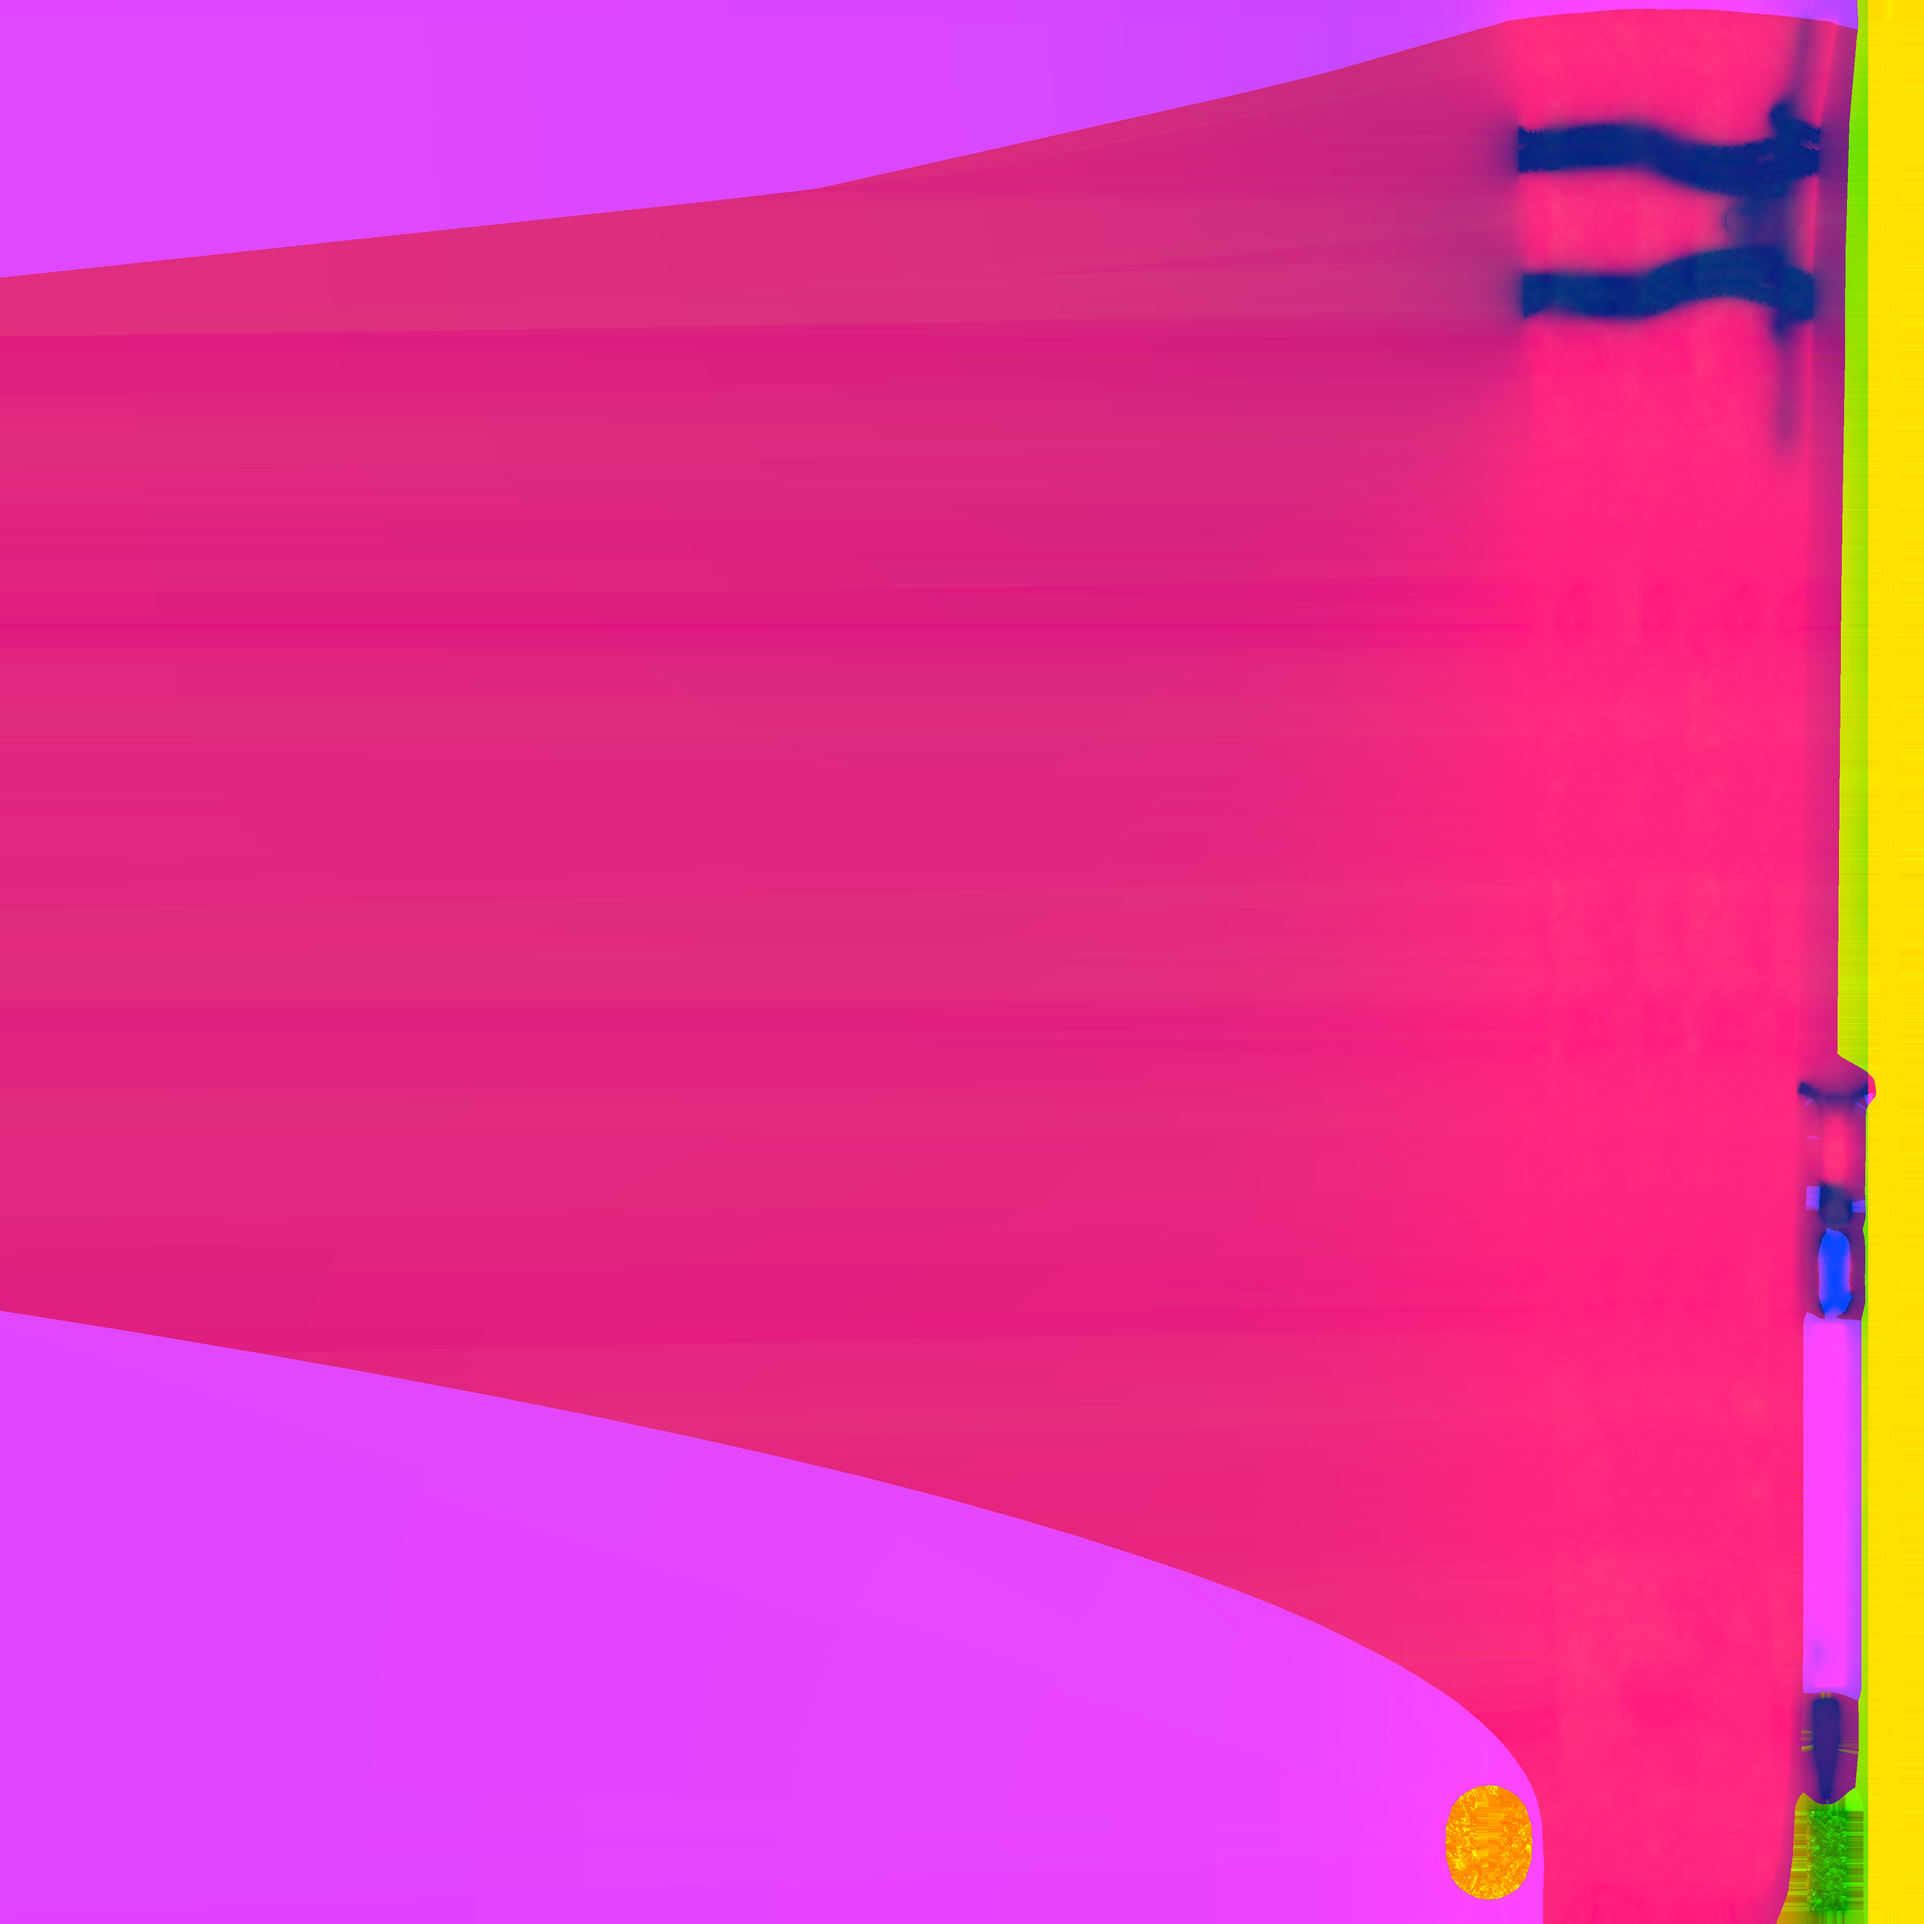
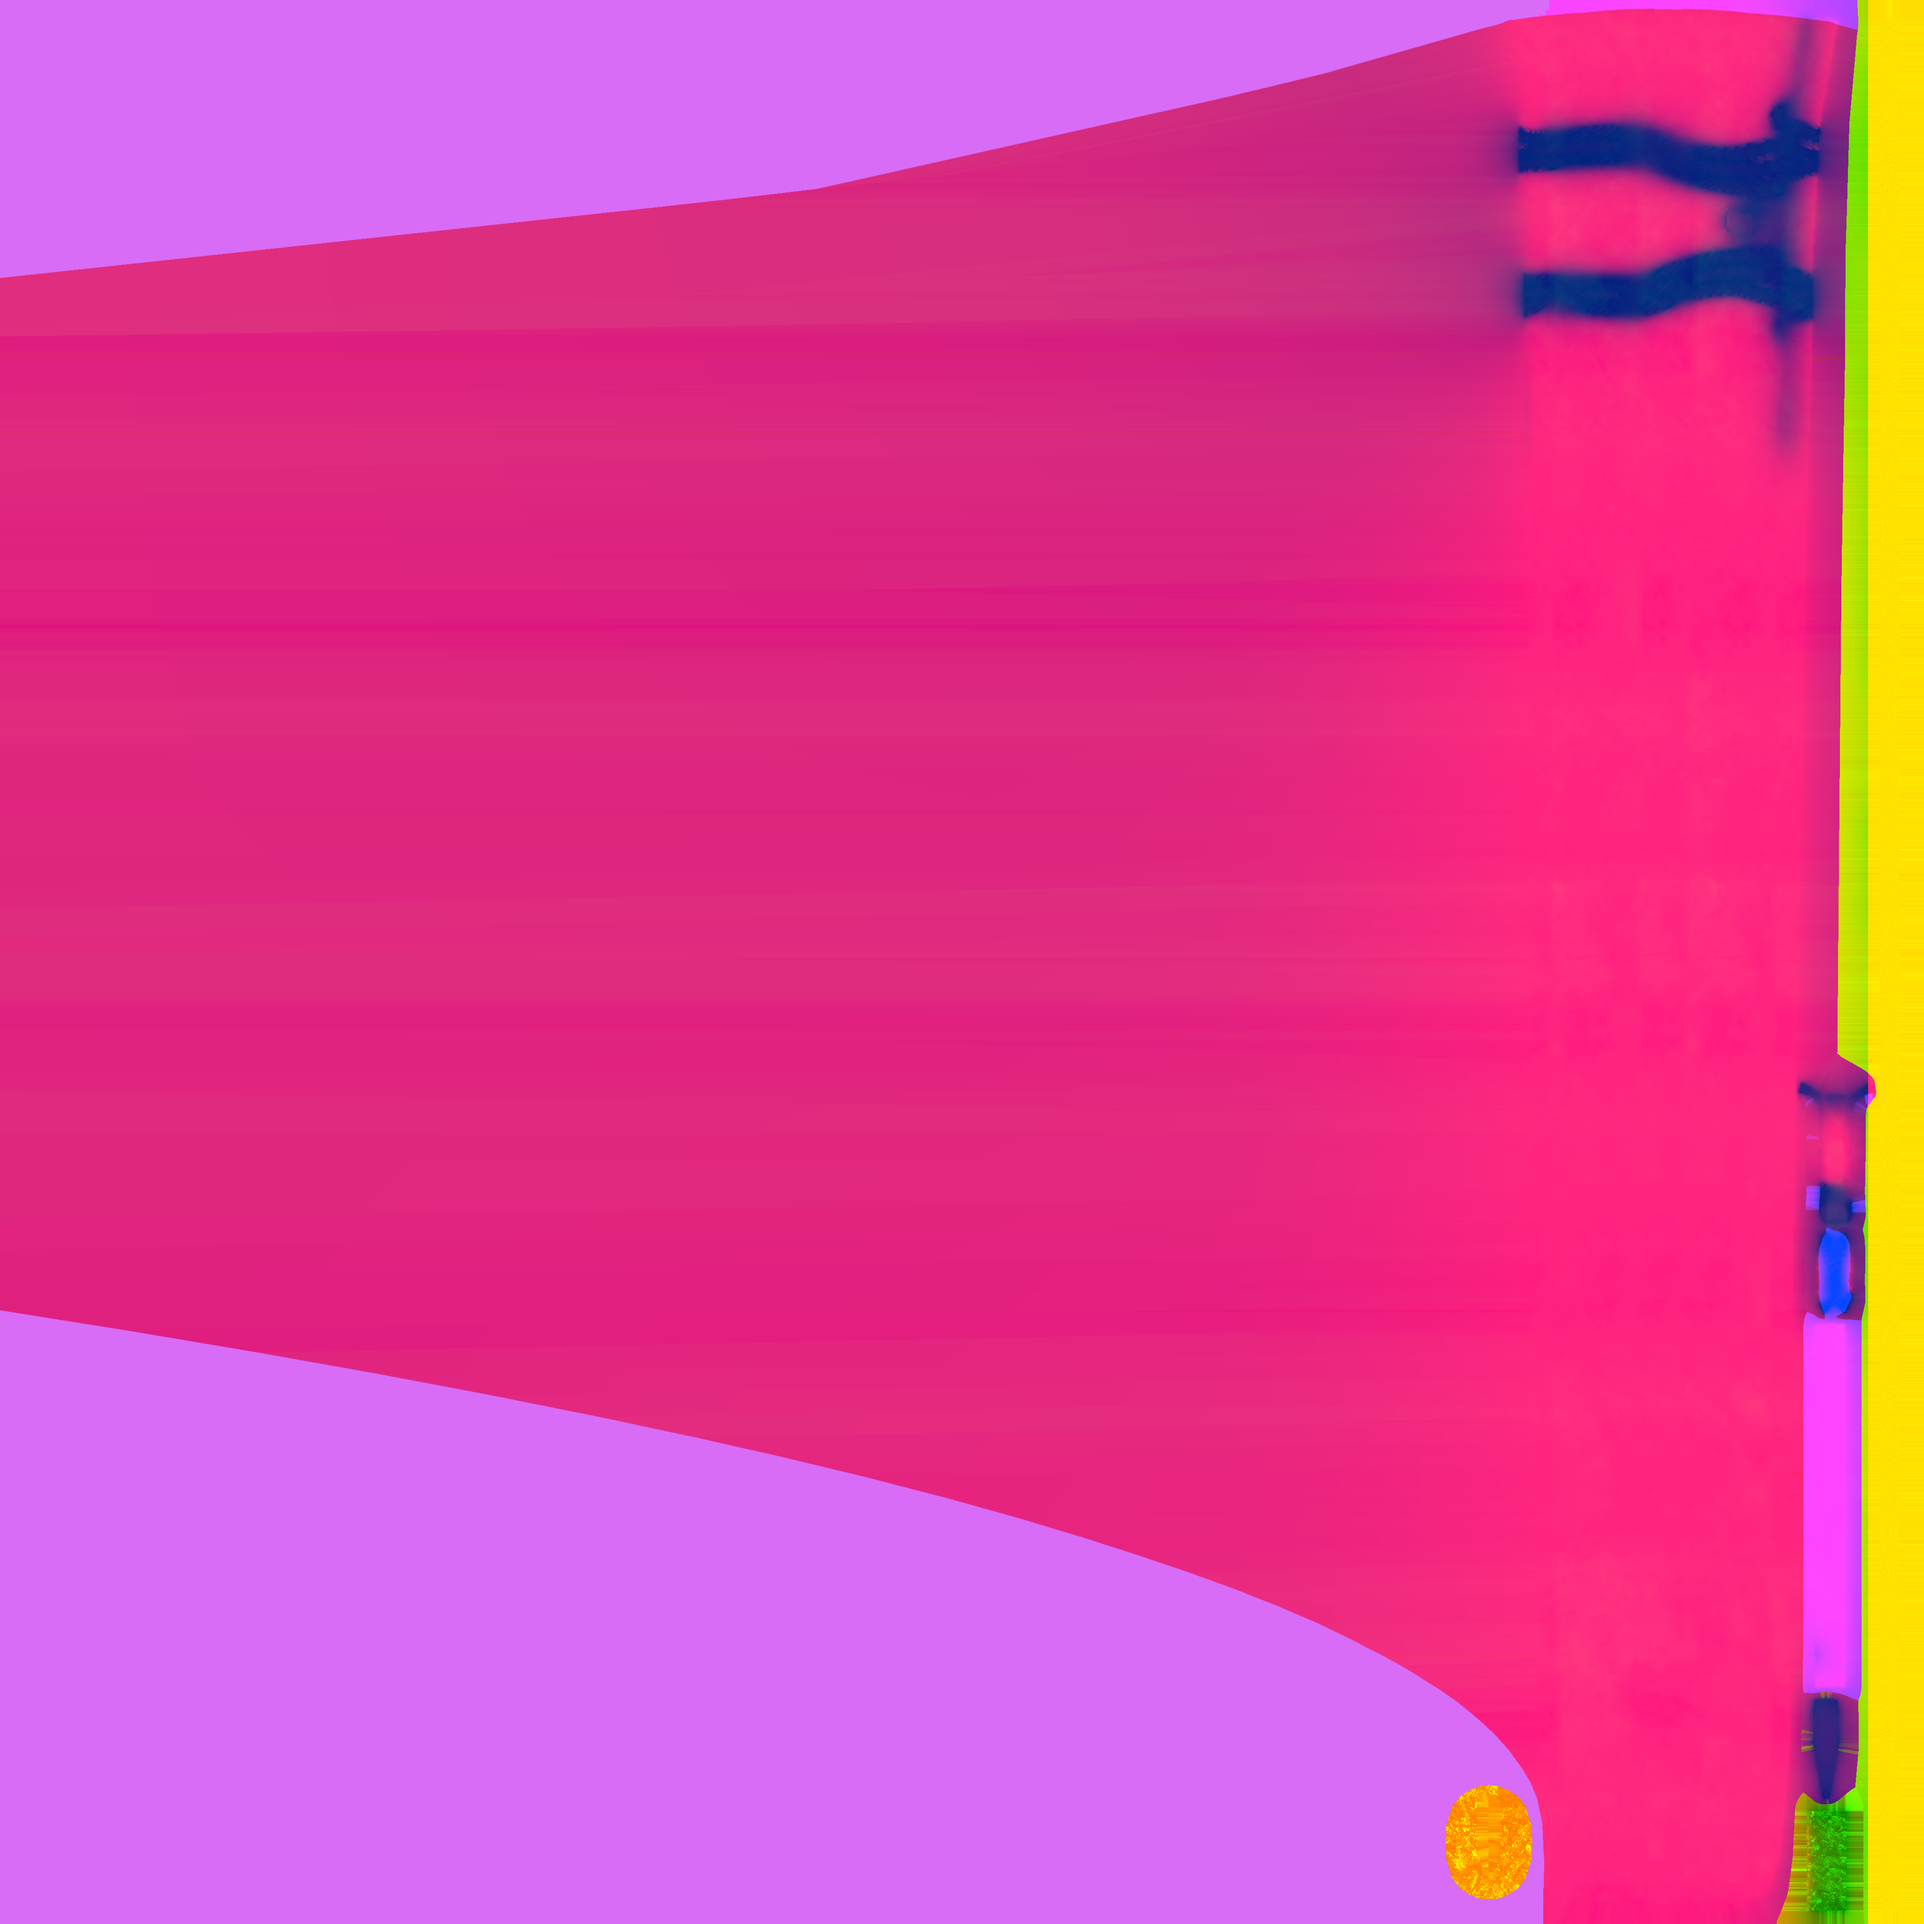
ss

Changed region(s): [[0.0, 0.6562, 0.8125, 1.0], [0.0, 0.0, 0.8125, 0.1562]]

diff --git a/main.js b/main.js
@@ -35,51 +35,27 @@ function init() {
     scene.add( light );
 
     hemiLight = new THREE.HemisphereLight( 0xffffff, 0xffffff, 5);
-    hemiLight.position.set( 0, 10, 0 );
+    hemiLight.position.set( 0, 15, 0 );  
 
     scene.add( hemiLight );
+    
 
-
-    light1 = new THREE.PointLight(0xc4c4c4,0.5);
-    light1.position.set(30,20,50);
+    light1 = new THREE.DirectionalLight(0xc4c4c4,1);
+    light1.position.set(10,3,20);
      scene.add(light1);
 
-    light2 = new THREE.PointLight(0xc4c4c4,0.5);
-    light2.position.set(-7,20,50);
+    light2 = new THREE.DirectionalLight(0xc4c4c4,1);
+    light2.position.set(-10,3,20);
     scene.add(light2);
 
-    light3 = new THREE.PointLight(0xc4c4c4,0.5);
-    light3.position.set(30,-20,-50);
+    light3 = new THREE.DirectionalLight(0xc4c4c4,1);
+    light3.position.set(10,3,-20);
     scene.add(light3);
     
-    light4 = new THREE.PointLight(0xc4c4c4,0.5);
-    light4.position.set(-7,20,-50);
+    light4 = new THREE.DirectionalLight(0xc4c4c4,1);
+    light4.position.set(-10,3,-20);
     scene.add(light4);
-
-    lightMove = new THREE.PointLight(0xc4c4c4,5,);
-   // lightMove.position.set(-7,20,-50);
-     
-    scene.add(lightMove);
-
-
-
-/*
-    scene.add( spotLight1, spotLight2, spotLight3 );
-    scene.add( lightHelper1, lightHelper2, lightHelper3 );
-*/
-
-/*
-   lightFront = new THREE.DirectionalLight(0xc4c4c4, 1);
-    lightFront.position.set(0,12, 10);
-     
-    scene.add(lightFront);
-
-    lightBack = new THREE.DirectionalLight(0xc4c4c4, 1);
-    lightBack.position.set(0,12, -10);
-    scene.add(lightBack);*/
-
-    
-   
+  
 
     renderer = new THREE.WebGLRenderer({canvas, antialias:true});
 
@@ -123,11 +99,7 @@ function init() {
 function animate() {
  
   renderer.render(scene,camera);  
-  
-  //lightMove
-  lightMove.position.set(camera.position.x, camera.position.y, camera.position.z -10)
-  lightMove.target = katana;  
-
+ 
 
   requestAnimationFrame(animate);
   if (resizeRendererToDisplaySize(renderer)) {

diff --git a/katanaParts.js b/katanaParts.js
@@ -6,22 +6,22 @@ const colorsNonMetal = [
         color: '171717'
     },
     {
-        color: 'EE0000'
+        color: 'F50016'
     },
     {
-        color: '0300BD'
+        color: '00008F'
     },
     {
-        color: '06CD31'
+        color: '084F1A'
     },
     {
         color: 'EFF70E'
     },
     {
-        color: '13CDC7'
+        color: '0A605E'
     },
     {
-        color: 'B5651D'
+        color: '6A1415'
     },
     {
         color: '654321'
@@ -45,10 +45,10 @@ const colorsNonMetal = [
         color: 'C5C9C7'
     },
     {
-        color: 'EDC9AF'
+        color: 'EDD9AF'
     },
     {
-        color: 'FFD8B1'
+        color: 'FFDAB9'
     },
     ]
 
@@ -137,8 +137,6 @@ const colorsNonMetal = [
             name: 'Kurigata',
             metal: true
         }
-
-
         
 
         
